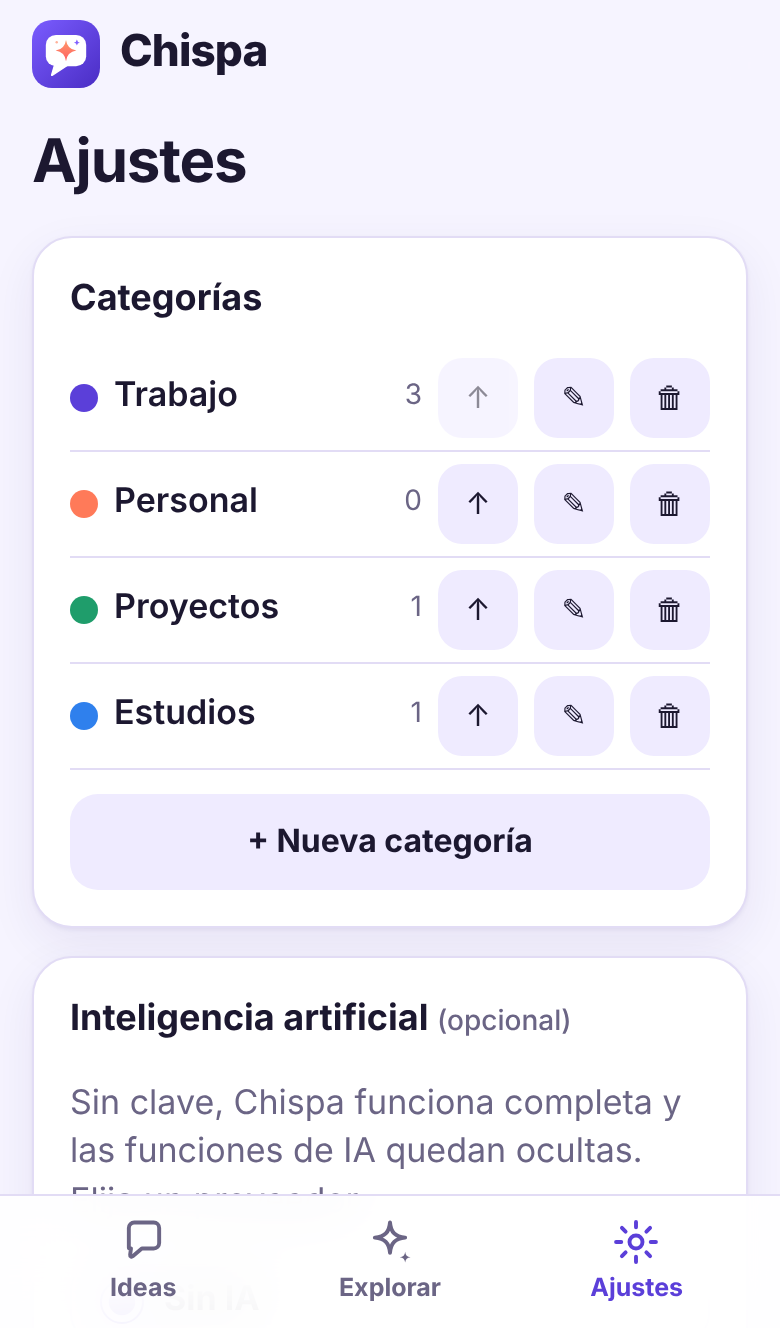
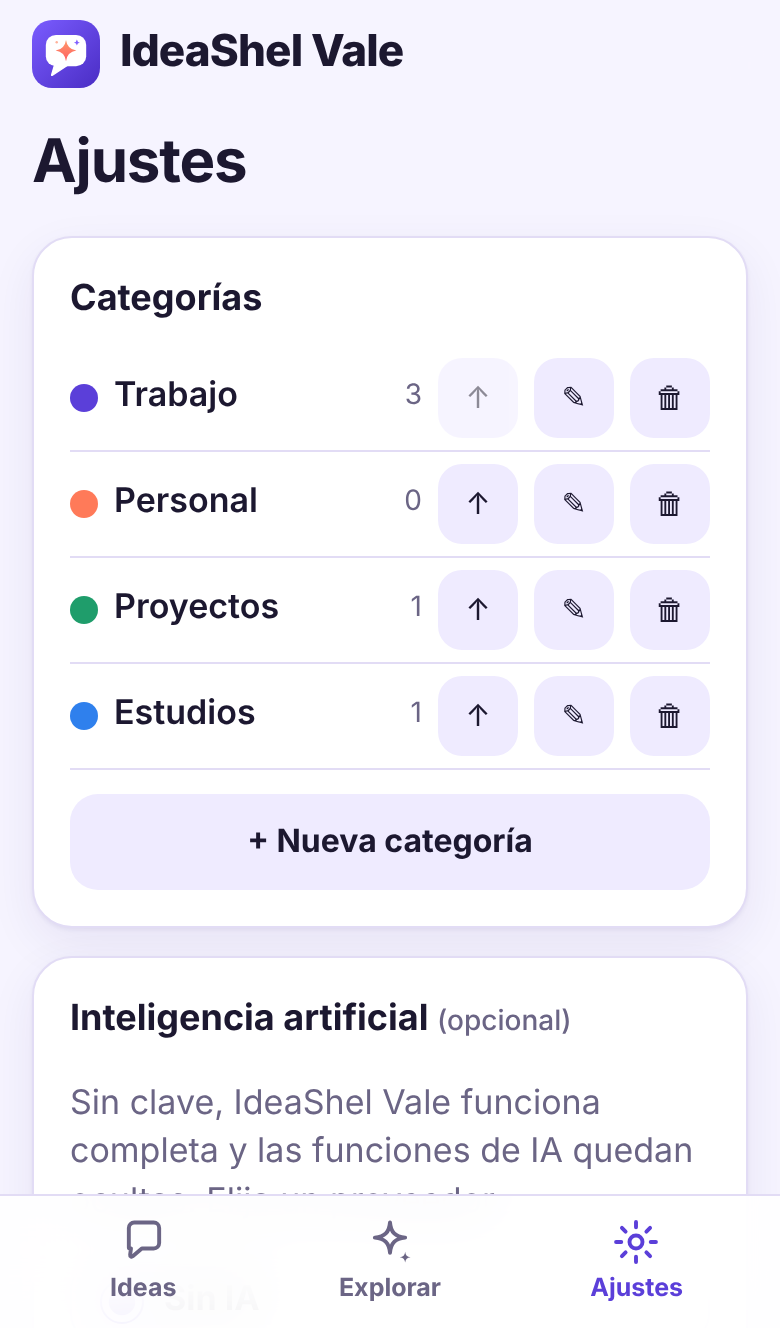
Renombrar la app a IdeaShel Vale
Claude-Session: https://claude.ai/code/session_01TXsfEo9RkLGdBMwcoRgNve

Changed region(s): [[0.0923, 0.8027, 0.8923, 0.8953], [0.1538, 0.0, 0.5231, 0.0617]]

diff --git a/app/js/app.js b/app/js/app.js
@@ -1,4 +1,4 @@
-// Chispa · captura y organización de ideas por voz
+// IdeaShel Vale · captura y organización de ideas por voz
 import { db, loadSettings, saveSetting } from './db.js';
 import * as AI from './ai.js';
 import { Dictation, voiceSupported, voiceErrorMessage, VOICE_LANGS } from './voice.js';
@@ -550,7 +550,7 @@ function renderIdeas() {
     empty.hidden = false;
     if (!activeIdeas().length) {
       empty.innerHTML = `<div class="empty-art" aria-hidden="true">✦</div>
-        <h3>Su primera chispa</h3>
+        <h3>Su primera idea</h3>
         <p>Toque el botón morado y diga su idea en voz alta, o escríbala arriba. Todo queda guardado solo en este teléfono.</p>`;
     } else {
       empty.innerHTML = `<div class="empty-art" aria-hidden="true">🔍</div>
@@ -1213,7 +1213,7 @@ function renderOrganize(groups) {
 
 async function exportMarkdown() {
   const ideas = activeIdeas().sort((a, b) => b.createdAt - a.createdAt);
-  const lines = [`# Mis ideas en Chispa`, ``, `Exportado el ${fmtFull(Date.now())} · ${ideas.length} ideas`, ``];
+  const lines = [`# Mis ideas en IdeaShel Vale`, ``, `Exportado el ${fmtFull(Date.now())} · ${ideas.length} ideas`, ``];
   const groups = [...sortedCats().map((c) => ({ name: c.name, list: ideas.filter((i) => i.category === c.id) })),
     { name: 'Sin categoría', list: ideas.filter((i) => !i.category || !catById(i.category)) }];
   for (const g of groups) {
@@ -1229,7 +1229,7 @@ async function exportMarkdown() {
     }
   }
   const blob = new Blob([lines.join('\n')], { type: 'text/markdown' });
-  await shareOrDownload(blob, `chispa-ideas-${stamp()}.md`, 'Mis ideas (Chispa)');
+  await shareOrDownload(blob, `ideashel-vale-ideas-${stamp()}.md`, 'Mis ideas (IdeaShel Vale)');
 }
 
 // ---------------------------------------------------------------- respaldo
@@ -1277,7 +1277,7 @@ function buildBackup() {
 async function exportBackup() {
   const data = buildBackup();
   const blob = new Blob([JSON.stringify(data, null, 2)], { type: 'application/json' });
-  const ok = await shareOrDownload(blob, `chispa-respaldo-${stamp()}.json`, 'Respaldo de Chispa');
+  const ok = await shareOrDownload(blob, `ideashel-vale-respaldo-${stamp()}.json`, 'Respaldo de IdeaShel Vale');
   if (!ok) return;
   await setSetting('lastBackupAt', Date.now());
   hideBanner();
@@ -1332,11 +1332,11 @@ async function importBackup(file) {
   try {
     data = JSON.parse(await file.text());
   } catch (e) {
-    await alertDialog('No se pudo importar', 'El archivo no es un respaldo válido (el JSON está dañado o no es de Chispa).');
+    await alertDialog('No se pudo importar', 'El archivo no es un respaldo válido (el JSON está dañado o no es de IdeaShel Vale).');
     return;
   }
   if (!data || !Array.isArray(data.ideas)) {
-    await alertDialog('No se pudo importar', 'El archivo no parece un respaldo de Chispa: no contiene una lista de ideas.');
+    await alertDialog('No se pudo importar', 'El archivo no parece un respaldo de IdeaShel Vale: no contiene una lista de ideas.');
     return;
   }
   const ideas = data.ideas.map(sanitizeIdea).filter(Boolean);
@@ -1463,11 +1463,11 @@ function renderSettings() {
 
     <div class="card">
       <h2 class="card-title">Inteligencia artificial <small>(opcional)</small></h2>
-      <p class="muted">Sin clave, Chispa funciona completa y las funciones de IA quedan ocultas. Elija un proveedor:</p>
+      <p class="muted">Sin clave, IdeaShel Vale funciona completa y las funciones de IA quedan ocultas. Elija un proveedor:</p>
       <label class="radio-row standalone"><input type="radio" name="aiProv" value="none" ${s.aiProvider === 'none' ? 'checked' : ''}><span>Sin IA</span></label>
       ${keyField('gemini', 'Gemini de Google · nivel gratuito', s.geminiKey, 'Pegue su clave de Google AI Studio')}
       ${keyField('claude', 'Claude de Anthropic · pago por uso', s.claudeKey, 'Pegue su clave sk-ant-…')}
-      <p class="lock-note">🔒 Su clave queda guardada solo en este teléfono. Chispa la envía únicamente al proveedor elegido (Google o Anthropic) cuando usted pide una función de IA, y nunca se incluye en los respaldos.</p>
+      <p class="lock-note">🔒 Su clave queda guardada solo en este teléfono. IdeaShel Vale la envía únicamente al proveedor elegido (Google o Anthropic) cuando usted pide una función de IA, y nunca se incluye en los respaldos.</p>
       ${(s.geminiKey || s.claudeKey) ? '<button type="button" class="btn danger-ghost full-w" id="delAllKeys">Borrar todas las claves</button>' : ''}
     </div>
 
@@ -1507,9 +1507,9 @@ function renderSettings() {
     </div>
 
     <div class="card about">
-      <h2 class="card-title">Acerca de Chispa</h2>
+      <h2 class="card-title">Acerca de IdeaShel Vale</h2>
       <p class="muted">Versión ${APP_VERSION} · Funciona sin internet · Sus datos viven solo en este teléfono.</p>
-      <p class="muted small" id="storageInfo">${state.persisted === true ? '✓ Almacenamiento protegido contra borrado automático.' : state.persisted === false ? 'Consejo: instale Chispa en la pantalla de inicio para proteger mejor sus datos y haga respaldos periódicos.' : ''}</p>
+      <p class="muted small" id="storageInfo">${state.persisted === true ? '✓ Almacenamiento protegido contra borrado automático.' : state.persisted === false ? 'Consejo: instale IdeaShel Vale en la pantalla de inicio para proteger mejor sus datos y haga respaldos periódicos.' : ''}</p>
     </div>`;
 
   // Categorías
@@ -1753,7 +1753,7 @@ function registerSW() {
   });
   navigator.serviceWorker.register('./sw.js').then((reg) => {
     const notify = (worker) => {
-      toast('Hay una nueva versión de Chispa.', { action: 'Actualizar', duration: 10000, onAction: () => worker.postMessage('skipWaiting') });
+      toast('Hay una nueva versión de IdeaShel Vale.', { action: 'Actualizar', duration: 10000, onAction: () => worker.postMessage('skipWaiting') });
     };
     if (reg.waiting && hadController) notify(reg.waiting);
     reg.addEventListener('updatefound', () => {

diff --git a/app/index.html b/app/index.html
@@ -3,7 +3,7 @@
 <head>
   <meta charset="utf-8">
   <meta name="viewport" content="width=device-width, initial-scale=1, viewport-fit=cover">
-  <title>Chispa · Ideas por voz</title>
+  <title>IdeaShel Vale · Ideas por voz</title>
   <meta name="description" content="Capture sus ideas por voz y organícelas. Funciona sin internet y todo queda guardado en su teléfono.">
   <meta name="theme-color" content="#F6F4FF" media="(prefers-color-scheme: light)">
   <meta name="theme-color" content="#14111F" media="(prefers-color-scheme: dark)">
@@ -11,8 +11,8 @@
   <meta name="apple-mobile-web-app-capable" content="yes">
   <meta name="mobile-web-app-capable" content="yes">
   <meta name="apple-mobile-web-app-status-bar-style" content="default">
-  <meta name="apple-mobile-web-app-title" content="Chispa">
-  <meta name="application-name" content="Chispa">
+  <meta name="apple-mobile-web-app-title" content="IdeaShel Vale">
+  <meta name="application-name" content="IdeaShel Vale">
   <meta name="format-detection" content="telephone=no">
   <link rel="manifest" href="manifest.webmanifest">
   <link rel="icon" href="icons/favicon.svg" type="image/svg+xml">
@@ -25,7 +25,7 @@
     <header class="topbar">
       <div class="brand">
         <img src="icons/favicon.svg" alt="" width="34" height="34">
-        <span class="brand-name">Chispa</span>
+        <span class="brand-name">IdeaShel Vale</span>
       </div>
       <span id="offlinePill" class="pill pill-offline" hidden>Sin conexión</span>
     </header>
@@ -97,7 +97,7 @@
   <div id="toast" class="toast" role="status" aria-live="polite"></div>
   <input id="importFile" type="file" accept="application/json,.json" hidden>
 
-  <noscript><p style="padding:24px">Chispa necesita JavaScript activado.</p></noscript>
+  <noscript><p style="padding:24px">IdeaShel Vale necesita JavaScript activado.</p></noscript>
   <script type="module" src="js/app.js"></script>
 </body>
 </html>

diff --git a/app/js/ai.js b/app/js/ai.js
@@ -20,11 +20,11 @@ export class AIError extends Error {
   }
 }
 
-const SYSTEM = 'Usted es el asistente de Chispa, una app para capturar y ordenar ideas. ' +
+const SYSTEM = 'Usted es el asistente de IdeaShel Vale, una app para capturar y ordenar ideas. ' +
   'Responda siempre en español de Chile, claro y breve, tratando al usuario de usted. ' +
   'Trabaje solo con la información de las ideas entregadas; no invente datos.';
 
-const OFFLINE_MSG = 'Sin conexión a internet. Las funciones de IA necesitan internet; el resto de Chispa funciona igual sin conexión.';
+const OFFLINE_MSG = 'Sin conexión a internet. Las funciones de IA necesitan internet; el resto de IdeaShel Vale funciona igual sin conexión.';
 
 async function fetchJSON(url, options, timeoutMs = 60000) {
   if (typeof navigator !== 'undefined' && navigator.onLine === false) {

diff --git a/app/js/voice.js b/app/js/voice.js
@@ -16,7 +16,7 @@ export function voiceErrorMessage(code) {
   switch (code) {
     case 'not-allowed':
     case 'service-not-allowed':
-      return 'Chispa no tiene permiso para usar el micrófono o el reconocimiento de voz. En el iPhone revise Ajustes → Apps → Safari → Micrófono, y que Siri y Dictado estén activados. Mientras tanto, puede dictar con el micrófono del teclado.';
+      return 'IdeaShel Vale no tiene permiso para usar el micrófono o el reconocimiento de voz. En el iPhone revise Ajustes → Apps → Safari → Micrófono, y que Siri y Dictado estén activados. Mientras tanto, puede dictar con el micrófono del teclado.';
     case 'no-speech':
       return 'No se escuchó nada. Intente de nuevo hablando un poco más cerca del teléfono.';
     case 'audio-capture':

diff --git a/app/sw.js b/app/sw.js
@@ -1,4 +1,4 @@
-// Service worker de Chispa: guarda la app en el teléfono para abrir sin internet.
+// Service worker de IdeaShel Vale: guarda la app en el teléfono para abrir sin internet.
 // BUILD se reemplaza automáticamente en cada despliegue (ver .github/workflows/pages.yml).
 const BUILD = 'dev';
 const CACHE = `chispa-1.0.0-${BUILD}`;
@@ -53,7 +53,7 @@ self.addEventListener('fetch', (event) => {
       try {
         return await fetch(req);
       } catch (e) {
-        return new Response('<h1>Sin conexión</h1><p>Abra Chispa una vez con internet para instalarla.</p>', {
+        return new Response('<h1>Sin conexión</h1><p>Abra IdeaShel Vale una vez con internet para instalarla.</p>', {
           headers: { 'Content-Type': 'text/html; charset=utf-8' }
         });
       }

diff --git a/app/js/db.js b/app/js/db.js
@@ -55,7 +55,7 @@ export function openDB() {
       resolve(db);
     };
     req.onerror = () => reject(friendly(req.error));
-    req.onblocked = () => reject(new StorageError('La base de datos está en uso por otra ventana de Chispa. Ciérrela e intente de nuevo.'));
+    req.onblocked = () => reject(new StorageError('La base de datos está en uso por otra ventana de IdeaShel Vale. Ciérrela e intente de nuevo.'));
   });
   dbPromise.catch(() => { dbPromise = null; });
   return dbPromise;

diff --git a/app/js/util.js b/app/js/util.js
@@ -1,4 +1,4 @@
-// Utilidades generales de Chispa
+// Utilidades generales de IdeaShel Vale
 
 export const $ = (sel, root = document) => root.querySelector(sel);
 export const $$ = (sel, root = document) => Array.from(root.querySelectorAll(sel));

diff --git a/app/styles.css b/app/styles.css
@@ -1,4 +1,4 @@
-/* Chispa · estilos */
+/* IdeaShel Vale · estilos */
 :root {
   --brand: #5B3FD9;
   --brand-2: #8061FF;

diff --git a/README.md b/README.md
@@ -1,4 +1,4 @@
-# Chispa · ideas por voz
+# IdeaShel Vale · ideas por voz
 
 App web instalable (PWA) para iPhone para capturar ideas por voz y organizarlas. Funciona sola: no depende de ningún servidor propio, todo queda guardado en el teléfono (IndexedDB) y abre sin internet.
 
